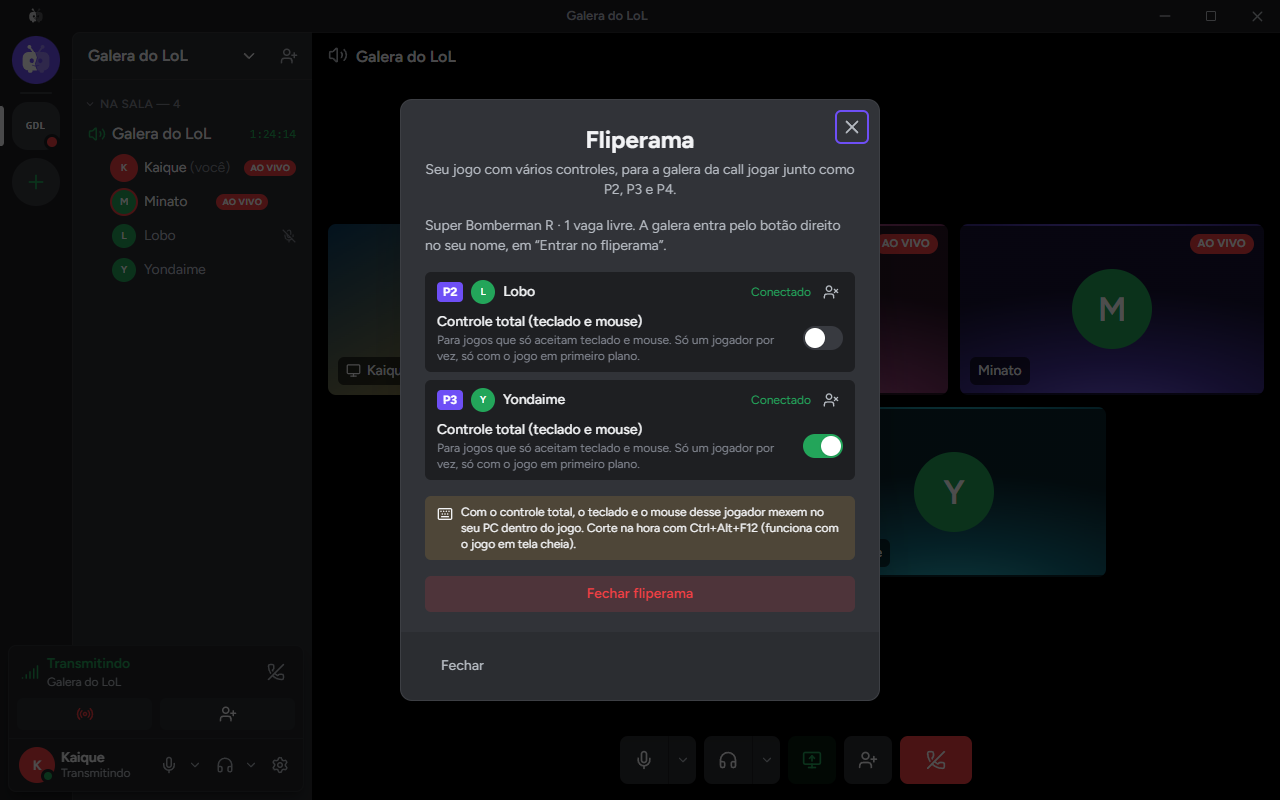
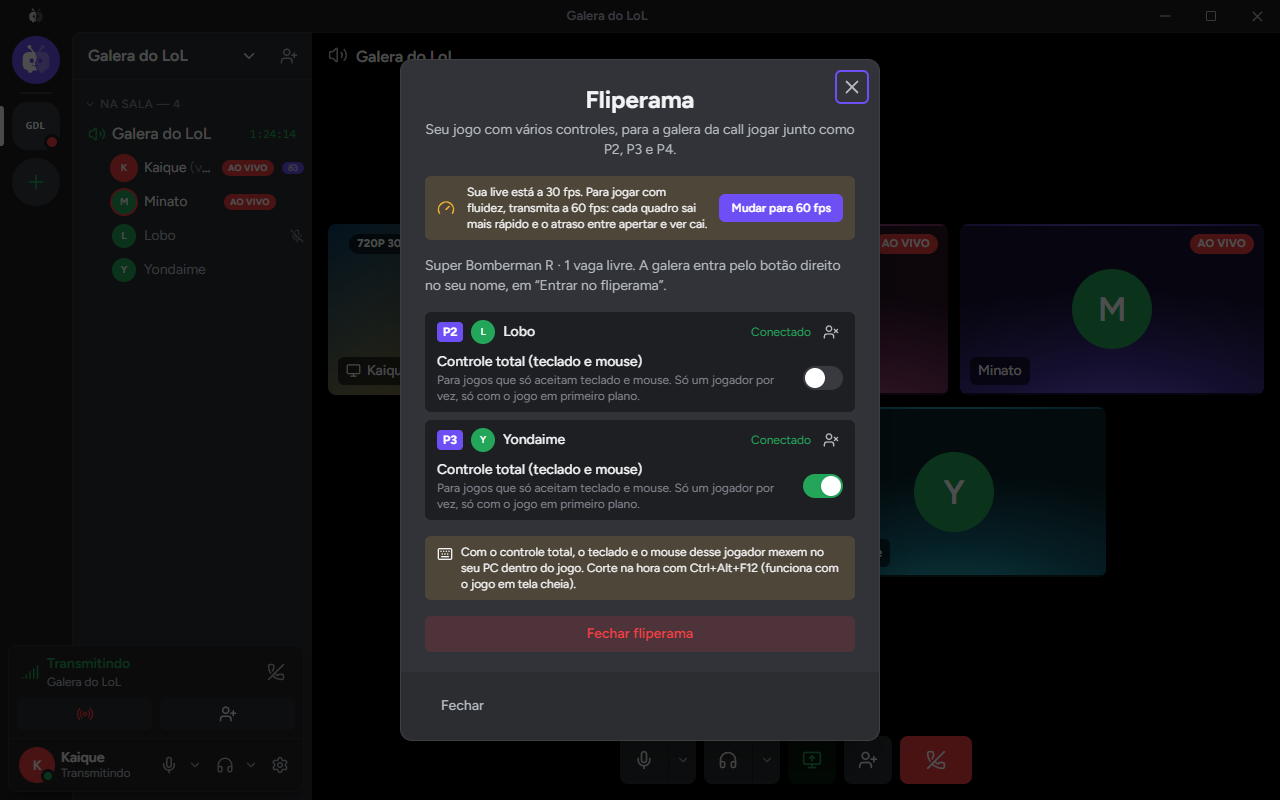
docs(docs): atualiza o README e a captura do fliperama para a versão 0.11.1 (#101)
* fix(ui): selo do fliperama cabe na lista da sala ao lado do AO VIVO

* docs(docs): atualiza o README e a captura do fliperama para a versão 0.11.1

diff --git a/apps/desktop/src/ui/LiveBadge.tsx b/apps/desktop/src/ui/LiveBadge.tsx
@@ -32,17 +32,20 @@ export function InfoBadge({ children, className, ...rest }: { children: string }
 
 /**
  * O selo do fliperama aberto (ADR 0023): roxo da marca, com o controle e quantos jogam. Para todos
- * da sala saberem que dá para entrar como jogador. `compact`: só o controle e a conta (na lista).
+ * da sala saberem que dá para entrar como jogador. `compact`: só o controle e a conta; `iconOnly`:
+ * só o controle (na lista da sala, ao lado do AO VIVO, não cabe mais nada; a conta vai na dica).
  */
 export function ArcadeBadge({
   arcade,
   compact,
+  iconOnly,
   size,
   className,
   ...rest
 }: {
   arcade: { slots: number; players: string[] };
   compact?: boolean;
+  iconOnly?: boolean;
   size?: "sm" | "md";
 } & HTMLAttributes<HTMLSpanElement>) {
   const count = `${arcade.players.length}/${arcade.slots}`;
@@ -51,12 +54,13 @@ export function ArcadeBadge({
       {...rest}
       role="img"
       aria-label={`Fliperama aberto: ${arcade.players.length} de ${arcade.slots} ${arcade.slots === 1 ? "vaga ocupada" : "vagas ocupadas"}`}
+      title={iconOnly ? `Fliperama: ${count}` : undefined}
       className={`inline-flex shrink-0 items-center gap-1 rounded-full bg-brand font-bold tracking-wide text-white uppercase ${
         size === "sm" ? "px-1.5 py-px text-[9px]" : "px-2 py-0.5 text-[11px]"
       } ${className ?? ""}`}
     >
       <Gamepad2 aria-hidden size={size === "sm" ? 10 : 12} />
-      {compact ? count : `Fliperama ${count}`}
+      {iconOnly ? null : compact ? count : `Fliperama ${count}`}
     </span>
   );
 }

diff --git a/apps/desktop/src/arcade/arcade-extra.test.tsx b/apps/desktop/src/arcade/arcade-extra.test.tsx
@@ -388,6 +388,11 @@ describe("selo do fliperama", () => {
     );
     rerender(<ArcadeBadge arcade={{ slots: 1, players: [] }} compact size="sm" />);
     expect(screen.getByRole("img", { name: "Fliperama aberto: 0 de 1 vaga ocupada" })).toHaveTextContent("0/1");
+    // Na lista da sala, só o controle (a conta fica na dica).
+    rerender(<ArcadeBadge arcade={{ slots: 2, players: ["a"] }} iconOnly size="sm" />);
+    const icon = screen.getByRole("img", { name: "Fliperama aberto: 1 de 2 vagas ocupadas" });
+    expect(icon).toHaveTextContent("");
+    expect(icon).toHaveAttribute("title", "Fliperama: 1/2");
   });
 
   it("aparece na live de quem hospeda", () => {

diff --git a/apps/desktop/src/room/RoomSidebar.tsx b/apps/desktop/src/room/RoomSidebar.tsx
@@ -355,7 +355,7 @@ function MemberRow(props: {
         )}
         {deafened && <HeadphoneOff size={14} aria-label="Ensurdecido" className="shrink-0 text-text-faint" />}
         {member.live && <LiveBadge size="sm" />}
-        {member.arcade && <ArcadeBadge arcade={member.arcade} size="sm" compact />}
+        {member.arcade && <ArcadeBadge arcade={member.arcade} size="sm" iconOnly />}
         {canWatch && !props.watching && (
           <Tooltip label={`Assistir ${member.name}`} side="top">
             <button

diff --git a/README.md b/README.md
@@ -35,7 +35,7 @@
 </p>
 
 > [!NOTE]
-> **Versão 0.11: o Fliperama.** Transmitindo um jogo com vários controles (Bomberman, jogos de luta, party games), abra o **Fliperama** no menu da sua live: até 3 amigos da call entram como P2, P3 e P4 e jogam pela rede, com controle de Xbox, com o teclado (que vira controle) ou com o mouse (que vira o analógico direito). Para jogos só de teclado e mouse, dê o **controle total** a um jogador por vez, com corte em Ctrl+Alt+F12. Também nesta versão: uma queda rápida da conexão não tira mais ninguém da sala nem derruba a voz, quem sai e volta não aparece duas vezes, e um código de sala que não existe avisa "Código inválido" em vez de criar uma sala vazia. Achou um problema? [Abra uma issue](https://github.com/Kaique292/squadview/issues).
+> **Versão 0.11: o Fliperama.** Transmitindo um jogo com vários controles (Bomberman, jogos de luta, party games), abra o **Fliperama** no menu da sua live: até 3 amigos da call entram como P2, P3 e P4 e jogam pela rede, com controle de Xbox, com o teclado (que vira controle) ou com o mouse (que vira o analógico direito). Para jogos só de teclado e mouse, dê o **controle total** a um jogador por vez, com corte em Ctrl+Alt+F12. Também nesta versão: uma queda rápida da conexão não tira mais ninguém da sala nem derruba a voz, quem sai e volta não aparece duas vezes, e um código de sala que não existe avisa "Código inválido" em vez de criar uma sala vazia. **Na 0.11.1:** o botão do jogador chega ao jogo do host com menos de 1 ms de atraso no app (era 9 ms), um selo FLIPERAMA mostra para todos que o fliperama está aberto, e a live termina sozinha quando você fecha o programa que estava transmitindo. Achou um problema? [Abra uma issue](https://github.com/Kaique292/squadview/issues).
 
 ## ✨ O que ele faz
 
@@ -45,9 +45,9 @@
 - **Direto de PC para PC.** O vídeo não passa por servidor. As conexões são cifradas (QUIC com TLS 1.3).
 - **Jogue do jeito que quiser.** Janela, sem bordas ou tela cheia: escolha o jogo uma vez e o app acompanha sozinho do cliente para a partida e de volta (LoL, Valorant e jogos com launcher). Nada é injetado no jogo, então é seguro com Vanguard, EAC e BattlEye.
 - **Só o áudio do jogo.** Transmitindo um jogo ou app, vai só o som dele, e o som acompanha quando o jogo troca de janela; o som da call fica de fora.
-- **A sua live na sala**, como no Discord: transmitindo, a sua tela vira um quadro da sala, com a qualidade e o AO VIVO no canto, desenhados por cima da imagem sem esconder nada dela. Clique para pôr em foco, dois cliques para a tela cheia e o botão direito para parar, trocar o que transmite, mudar a qualidade ou ligar e desligar o som, sem sair do ar. Os detalhes mostram o último minuto em gráficos (fps, bitrate, latência e encode) e o uso da GPU e da CPU em barras.
+- **A sua live na sala**, como no Discord: transmitindo, a sua tela vira um quadro da sala, com a qualidade e o AO VIVO no canto, desenhados por cima da imagem sem esconder nada dela. Clique para pôr em foco, dois cliques para a tela cheia e o botão direito para parar, trocar o que transmite, mudar a qualidade ou ligar e desligar o som, sem sair do ar. Fechou o programa que estava transmitindo? A live termina sozinha. Os detalhes mostram o último minuto em gráficos (fps, bitrate, latência e encode) e o uso da GPU e da CPU em barras.
 - **Assista várias lives ao mesmo tempo**, como no Discord: cada live que você assiste vira um quadro da sala, igual ao da sua, e dá para assistir até 4 de uma vez. Clique para pôr em foco, dois cliques para a tela cheia e o botão direito (ou os "...") para o volume de até 200%, silenciar, parar de assistir e os detalhes (fps, bitrate, latência e ping em gráficos). No topo da sala aparecem quem transmite e as fotos de quem está assistindo; passe o mouse para ver a lista. Quer jogar enquanto assiste? Mande a live para uma **janelinha por cima de tudo** (picture in picture), com silenciar, volume e voltar para o app ao passar o mouse.
-- **Fliperama: o seu jogo local, online.** Transmitindo um jogo de vários controles, abra o Fliperama no menu da sua live e até 3 amigos da call entram como **P2, P3 e P4** pelo botão direito no seu nome. Cada um joga com o controle de Xbox dele, com o teclado (que vira controle, com as teclas que ele escolher) ou com o mouse preso no jogo (que vira o analógico direito). Para jogos só de teclado e mouse, você dá o **controle total** a um jogador por vez: só vale com a janela do jogo na frente, as teclas do Windows ficam bloqueadas e Ctrl+Alt+F12 corta na hora. Só quem hospeda instala o driver de controle (ViGEmBus), e dá para remover quando quiser em Configurações › Fliperama ([ADR 0023](docs/adr/0023-modo-fliperama.md) e [0024](docs/adr/0024-fliperama-teclado-e-mouse.md)).
+- **Fliperama: o seu jogo local, online.** Transmitindo um jogo de vários controles, abra o Fliperama no menu da sua live e até 3 amigos da call entram como **P2, P3 e P4** pelo botão direito no seu nome. Cada um joga com o controle de Xbox dele, com o teclado (que vira controle, com as teclas que ele escolher) ou com o mouse preso no jogo (que vira o analógico direito). Para jogos só de teclado e mouse, você dá o **controle total** a um jogador por vez: só vale com a janela do jogo na frente, as teclas do Windows ficam bloqueadas e Ctrl+Alt+F12 corta na hora. Um selo **FLIPERAMA** mostra para todos que o fliperama está aberto e quantos jogam. Do botão do jogador ao controle no PC de quem hospeda, o app acrescenta menos de 1 ms. Só quem hospeda instala o driver de controle (ViGEmBus), e dá para remover quando quiser em Configurações › Fliperama ([ADR 0023](docs/adr/0023-modo-fliperama.md) e [0024](docs/adr/0024-fliperama-teclado-e-mouse.md)).
 - **Funciona atrás de CGNAT.** Se a conexão direta não fecha (internet da operadora, 4G), o app tenta por IPv6 e, se ainda não der, recebe o vídeo por alguém da sala que já está assistindo. A voz faz o mesmo: se dois amigos não se alcançam, outro membro da sala repassa a voz entre eles, assinada com uma chave que só os dois conhecem ([ADR 0020](docs/adr/0020-voz-repassada-pela-sala.md)). Tudo de graça, sem servidor no meio; há também um repassador na nuvem pronto para ligar ([ADR 0014](docs/adr/0014-conexao-em-camadas.md)).
 - **Chat de voz na sala.** A sala é um canal de voz como o do Discord: um quadro por pessoa, cada um com o seu fundo em degradê, borda verde (ou o efeito que você escolher, com a cor que quiser; quando duas pessoas falam lado a lado, as cores se misturam onde os efeitos se tocam) em quem fala, mudo e surdo, e clique num quadro para pôr a pessoa em foco. Volume e silenciar por pessoa (só para você), isolamento de voz contra teclado e ventilador e controle automático de ganho, para todo mundo chegar no mesmo volume. A voz também vai direto de PC para PC.
 - **Amigos.** Veja quem está online, numa sala ou transmitindo. Peça para entrar na sala de um amigo (qualquer pessoa da sala aceita), chame amigos para a sua e marque quem entra direto. Adicione direto pelo botão direito em quem está na sala com você, ou depois, em Recentes.
@@ -246,7 +246,7 @@ As miniaturas das janelas usam o crate `jpeg-encoder`: _this software is based i
 
 There is **no media server**: video goes directly between PCs over QUIC, with UDP hole punching. The plan (Phase 3) is for the room itself to distribute the video: members with spare upload relay already-encoded packets, and members on weak connections get a 720p layer. A tiny free signaling service (Cloudflare Worker) only helps peers find each other; no video goes through it.
 
-- **Status:** version 0.11. New: the **Arcade** mode turns a local multiplayer game into an online one: up to 3 friends on the call join as P2–P4 and play with their Xbox controller, keyboard (mapped to a controller) or mouse (right stick), through virtual Xbox controllers (ViGEmBus) on the host's PC; the host can hand "full control" of keyboard and mouse to one player at a time, only while the game window is in front, with Ctrl+Alt+F12 to cut it. Short signaling drops are now invisible: the app rejoins the room with the same seat, without dropping voice. One friend streams and the rest of the room watches inside the app, directly PC to PC (NVIDIA and AMD), with a live viewer count. Members behind CGNAT connect over IPv6 or get the stream relayed by someone already watching; an optional cloud TURN relay is ready to turn on. The room is a Discord-like voice channel (peer-to-peer Opus voice with noise suppression), with friends, presence, "ask to join" requests, custom speaking effects that blend where they touch, picture-in-picture, notification sounds and a system tray icon. Watch up to 4 streams at once, each one a tile in the room with its own volume, mute, fullscreen, picture-in-picture (with hover controls) and stats. Video is drawn underneath the interface with DirectComposition, so badges, menus and animations blend over the stream. When two members can't reach each other (CGNAT), a third member relays their voice, signed end to end so the relay can't forge it. Rooms have no member limit. Servers with persistent voice rooms (showing who is in each room, with members joining directly), clickable invite links, roles and cropped icons; private peer-to-peer messages with files, emoji reactions and replies (no server in between, history kept locally). Discord login, invite links, Rich Presence and a silent Discord-style installer. Your own stream shows up as a tile in the room (Discord-style), with a right-click menu to stop, switch source, change quality or toggle audio without going offline, and a details view with live charts. Full room-wide relaying (mesh) is Phase 3. See the [roadmap](docs/roadmap.md).
+- **Status:** version 0.11.1. New: the **Arcade** mode turns a local multiplayer game into an online one: up to 3 friends on the call join as P2–P4 and play with their Xbox controller, keyboard (mapped to a controller) or mouse (right stick), through virtual Xbox controllers (ViGEmBus) on the host's PC; the host can hand "full control" of keyboard and mouse to one player at a time, only while the game window is in front, with Ctrl+Alt+F12 to cut it. Short signaling drops are now invisible: the app rejoins the room with the same seat, without dropping voice. One friend streams and the rest of the room watches inside the app, directly PC to PC (NVIDIA and AMD), with a live viewer count. Members behind CGNAT connect over IPv6 or get the stream relayed by someone already watching; an optional cloud TURN relay is ready to turn on. The room is a Discord-like voice channel (peer-to-peer Opus voice with noise suppression), with friends, presence, "ask to join" requests, custom speaking effects that blend where they touch, picture-in-picture, notification sounds and a system tray icon. Watch up to 4 streams at once, each one a tile in the room with its own volume, mute, fullscreen, picture-in-picture (with hover controls) and stats. Video is drawn underneath the interface with DirectComposition, so badges, menus and animations blend over the stream. When two members can't reach each other (CGNAT), a third member relays their voice, signed end to end so the relay can't forge it. Rooms have no member limit. Servers with persistent voice rooms (showing who is in each room, with members joining directly), clickable invite links, roles and cropped icons; private peer-to-peer messages with files, emoji reactions and replies (no server in between, history kept locally). Discord login, invite links, Rich Presence and a silent Discord-style installer. Your own stream shows up as a tile in the room (Discord-style), with a right-click menu to stop, switch source, change quality or toggle audio without going offline, and a details view with live charts. Full room-wide relaying (mesh) is Phase 3. See the [roadmap](docs/roadmap.md).
 - **Stack:** Rust core, Tauri v2, React 19 + Tailwind v4, QUIC (quinn) peer-to-peer mesh, Cloudflare Worker for signaling.
 - **Contributing:** PRs target the `dev` branch and use [Conventional Commits](https://www.conventionalcommits.org/). Docs are in Portuguese; issues and PRs in English are welcome too.
 - **Support:** [Buy Me a Coffee](https://buymeacoffee.com/kaiqueamaral).
